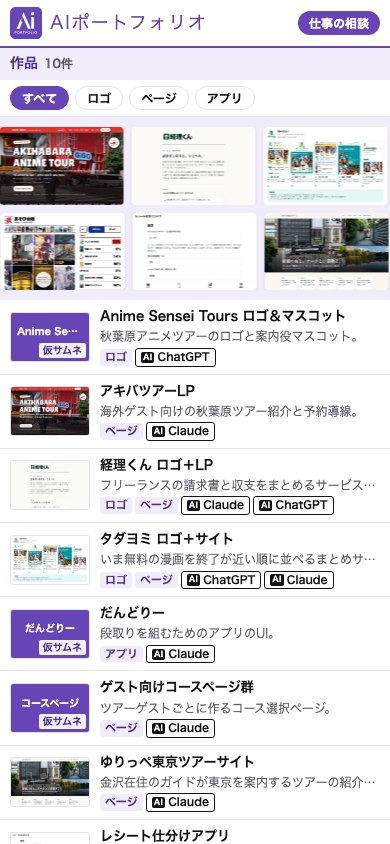
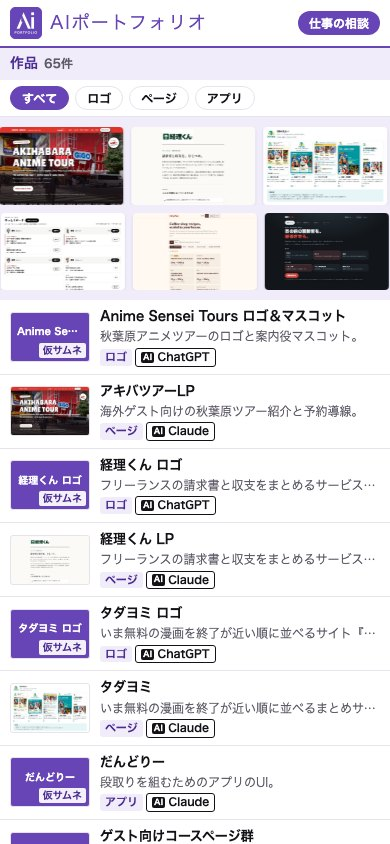
OGPを現行65件の実画面で作り直し：og-final.png（黒地＋白太字＋紫の短い下線／トップ・ロゴ・ページ・アプリの実画面4枚を横一列）。index の og:image を og-final.png へ。旧 og.png/og-top.png/og-board2.png は残す。selftest の期待値を og-final.png に更新

diff --git a/selftest.html b/selftest.html
@@ -16,7 +16,7 @@ const B="https://yukitchy.github.io/ai-portfolio/";
     ok(!/maru|rounded|丸/i.test([...d.querySelectorAll("*")].map(e=>getComputedStyle(e).fontFamily).join()),`${v} ${w}px 丸ゴシック不使用`);
     if(w!==390)continue;
     const self=v==="index"?B:`${B}${v}.html`,top=v==="index";
-    ok(d.querySelector('link[rel=icon]').href.endsWith("favicon.png")&&d.querySelector('link[rel=apple-touch-icon]').href.endsWith("assets/apple-touch-icon.png")&&d.querySelector('meta[property="og:image"]').content===B+({board:"og-board2.png",index:"og-top.png"}[v]||"og.png")&&d.querySelector('meta[property="og:url"]').content===self,`${v} favicon/apple-touch/og:image/og:url=${self}`);
+    ok(d.querySelector('link[rel=icon]').href.endsWith("favicon.png")&&d.querySelector('link[rel=apple-touch-icon]').href.endsWith("assets/apple-touch-icon.png")&&d.querySelector('meta[property="og:image"]').content===B+({board:"og-board2.png",index:"og-final.png"}[v]||"og.png")&&d.querySelector('meta[property="og:url"]').content===self,`${v} favicon/apple-touch/og:image/og:url=${self}`);
     const logo=d.querySelector("header img");ok(logo&&logo.complete&&logo.naturalWidth===256&&/assets\/icon\.png$/.test(logo.src),`${v} ヘッダーロゴ＝確定アイコン ${logo&&logo.src.split("/").pop()}`);
     if(v==="board"){
       const links=[...d.querySelectorAll(".grid a")].map(a=>a.getAttribute("href"));ok(links.join()==="v6.html,v7.html,v8.html,v9.html,v10.html,v1.html,v2.html,v3.html,v4.html,v5.html",`board 10案リンク ${links}`);

diff --git a/index.html b/index.html
@@ -10,7 +10,7 @@
 <meta property="og:title" content="AIポートフォリオ｜AIで作ったロゴ・ページ・アプリ">
 <meta property="og:description" content="ChatGPT・Claudeなどを使い分けて作ったデザイン実績。作品ごとに使用AIを記載。">
 <meta property="og:url" content="https://yukitchy.github.io/ai-portfolio/">
-<meta property="og:image" content="https://yukitchy.github.io/ai-portfolio/og-top.png">
+<meta property="og:image" content="https://yukitchy.github.io/ai-portfolio/og-final.png">
 <meta name="twitter:card" content="summary_large_image">
 <link rel="icon" href="favicon.png" type="image/png">
 <link rel="apple-touch-icon" href="assets/apple-touch-icon.png">

diff --git a/shots.py b/shots.py
@@ -19,21 +19,21 @@ for v in [] if top else [f"v{i}" for i in range(1,11)]:
   Image.open(png).convert("RGB").crop((0,0,w,844)).save(f"{out}/{v}.jpg",quality=86)
 os.remove("_frame.html")
 print("shots",out)
-# 本採用トップのOGP（黒地＋白太字＋紫の短い下線＋トップ実画面「すべて」「ロゴ」を2枚）。旧 og.png（全面紫）は使わない
+# 本採用トップのOGP og-final.png（黒地＋上段に白太字＋紫の短い下線／下段にトップ実画面4枚を横一列）。旧 og.png/og-top.png/og-board2.png は書かない（プレビューキャッシュ回避で新しい名前）
 if top and w==390:
   from PIL import ImageDraw,ImageFont
   og=Image.new("RGB",(1200,630),(20,18,23));d=ImageDraw.Draw(og)
   F="/System/Library/Fonts/ヒラギノ角ゴシック W{}.ttc"
-  d.text((60,200),"AIポートフォリオ",font=ImageFont.truetype(F.format(8),64),fill="white")
-  d.rectangle((62,296,62+72,296+6),fill=(103,69,183))
-  d.text((62,330),"AIで作ったロゴ・ページ・アプリ",font=ImageFont.truetype(F.format(4),30),fill=(220,214,232))
-  d.text((62,380),"作品ごとに使用AIを記載",font=ImageFont.truetype(F.format(4),24),fill=(170,164,182))
-  cw=250
-  for i,c in enumerate(["all","ロゴ"]):
-    sh=Image.open(f"shots/top-390-{c}.jpg").resize((cw,cw*844//390),Image.LANCZOS).crop((0,0,cw,630-60))
-    m=Image.new("L",sh.size,0);ImageDraw.Draw(m).rounded_rectangle((0,0,cw-1,sh.height+20),14,fill=255)
-    og.paste(sh,(640+i*(cw+30),60),m)
-  og.save("og-top.png",optimize=True);print("og-top.png")
+  d.text((60,46),"AIポートフォリオ",font=ImageFont.truetype(F.format(8),60),fill="white")
+  d.rectangle((62,134,62+72,134+6),fill=(103,69,183))
+  d.text((1140,60),"AIで作ったロゴ・ページ・アプリ",font=ImageFont.truetype(F.format(4),28),fill=(220,214,232),anchor="ra")
+  d.text((1140,104),"作品ごとに使用AIを記載",font=ImageFont.truetype(F.format(4),22),fill=(170,164,182),anchor="ra")
+  cw,gap,y=255,20,180
+  for i,c in enumerate(["all","ロゴ","ページ","アプリ"]):
+    sh=Image.open(f"shots/top-390-{c}.jpg").resize((cw,cw*844//390),Image.LANCZOS).crop((0,0,cw,630-y))
+    m=Image.new("L",sh.size,0);ImageDraw.Draw(m).rounded_rectangle((0,0,cw-1,sh.height+20),12,fill=255)
+    og.paste(sh,(60+i*(cw+gap),y),m)
+  og.save("og-final.png",optimize=True);print("og-final.png")
 # ボードのOGP（黒地＋白太字見出し＋紫の短い下線＋v6〜v10の実画面を横一列）。og.png は上書きしない（iPhoneのキャッシュ回避で新しい名前）
 if w==390 and not top:
   from PIL import ImageDraw,ImageFont
